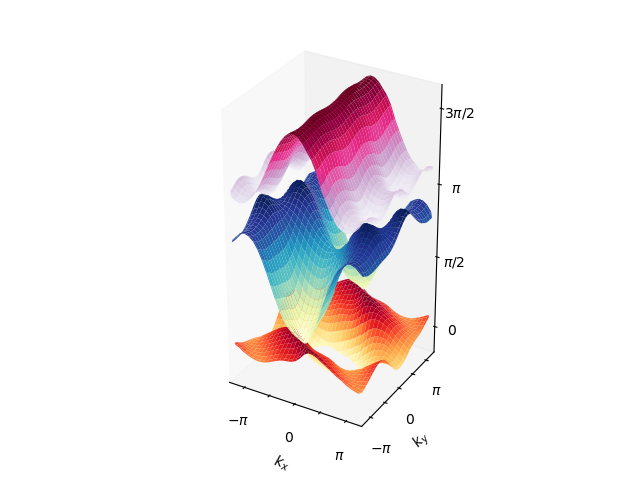
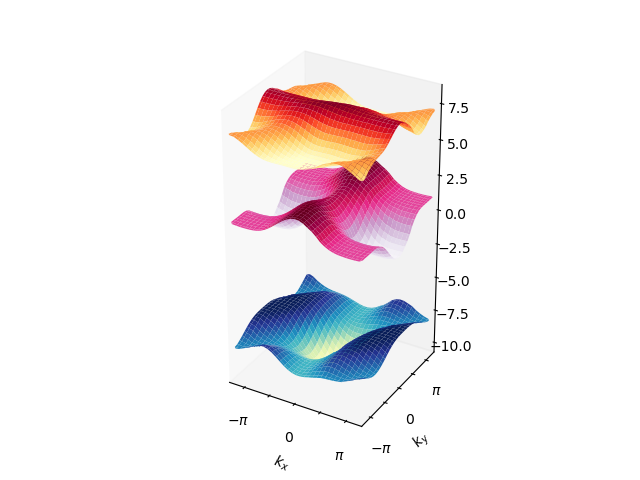
Structure slider

diff --git a/sp3_static_nodes.py b/sp3_static_nodes.py
@@ -12,7 +12,7 @@ a_2 = np.array([0,1])
 num_points = 50
 
 def find_nodes(energy_grid,
-                node_threshold = 1,
+                node_threshold = 0.5,
                 kxmin=-np.pi, 
                 kxmax=np.pi, 
                 kymin=-np.pi, 
@@ -117,8 +117,8 @@ axA = fig.add_axes([0.25, 0.1, 0.65, 0.03])
 A_slider = Slider(
     ax=axA,
     label='$\Delta_A$',
-    valmin=-5,
-    valmax=5,
+    valmin=-15,
+    valmax=15,
     valinit=init_A,
 )
 
@@ -127,8 +127,8 @@ axC = fig.add_axes([0.25, 0.05, 0.65, 0.03])
 C_slider = Slider(
     ax=axC,
     label="$\Delta_C$",
-    valmin=-5,
-    valmax=5,
+    valmin=-15,
+    valmax=15,
     valinit=init_C
 )
 

diff --git a/square_sp3_static.py b/square_sp3_static.py
@@ -6,12 +6,12 @@ from tight_binding.topology import compute_zak_phase, locate_dirac_strings
 
 plotting = True
 slicing = False
-zak = False
+zak = True
 locate_ds = False
 
 # PARAMETERS
-delta_A = 0
-delta_C = 0
+delta_A = -7
+delta_C = 1
 
 delta_B = - delta_A - delta_C
 
@@ -43,8 +43,8 @@ if plotting:
 
 # ZAK PHASE
 if zak:
-    start = np.array([0.1,0])
-    end = np.array([1.1,1])
+    start = np.array([0,0])
+    end = np.array([1,0])
 
     offsets = np.zeros((3,2))
     zak_phase, energies = compute_zak_phase(H, a_1, a_2, offsets, start, end, 

diff --git a/square_sp1_static.py b/square_sp1_static.py
@@ -6,7 +6,7 @@ from tight_binding.topology import compute_zak_phase, locate_dirac_strings
 
 plotting = True
 slicing = False
-zak = False
+zak = True
 locate_ds = False
 
 # PARAMETERS
@@ -42,8 +42,8 @@ if plotting:
 
 # ZAK PHASE
 if zak:
-    start = np.array([0.1,0])
-    end = np.array([1.1,1])
+    start = np.array([0,0])
+    end = np.array([0,1])
 
     offsets = np.zeros((3,2))
     zak_phase, energies = compute_zak_phase(H, a_1, a_2, offsets, start, end, 
